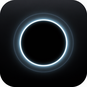
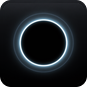
fix: иконка панели с прозрачными углами, 4.1.1
Белые уголки в «Настройках» были фоном PNG: иконка пакета настроек
не маскируется системой, поэтому непрозрачный почти белый фон
(252,252,253) давал белый квадрат за скруглённым artwork. Теперь
альфа строится по SDF скруглённого прямоугольника, а цвет кромки
берётся из самой тёмной точки на 2–6 px внутрь, чтобы не было
светлого ободка. Затронуты только icon.png / @2x / @3x, payload
остальных бинарей не менялся (Settings 11db44b0…).

Версия поднята до 4.1.1 во всех четырёх control-файлах, Info.plist
бандла и README.

---

fix: pane icon with transparent corners, 4.1.1

The white corners in Settings were the PNG background: preference-bundle
icons are not masked by the system, so the opaque near-white background
(252,252,253) produced a white square behind the rounded artwork. Alpha
is now derived from a rounded-rect SDF, and the edge colour is sampled
from the darkest point 2-6 px inward to avoid a light rim. Only
icon.png / @2x / @3x changed; no other payload binary differs
(Settings 11db44b0…).

Version bumped to 4.1.1 in all four control files, the bundle Info.plist
and the README.

diff --git a/README.md b/README.md
@@ -9,7 +9,7 @@
 Antumbra is a fork of [Shadow](https://github.com/jjolano/shadow) © 2023 jjolano
 (BSD-3-Clause): a jailbreak detection bypass hardened for iOS 15–18 and rootless
 Dopamine, with its own **English / Russian** pane language switch. Ships as
-`me.fedorovskyi.antumbra` (`4.1.0`).
+`me.fedorovskyi.antumbra` (`4.1.1`).
 
 Not affiliated with, sponsored by or endorsed by the original author. The core's
 internal names (Shadow.framework, ShadowCore.dylib, Shadow.dylib, the
@@ -111,7 +111,7 @@ inside every package.
 Antumbra — форк [Shadow](https://github.com/jjolano/shadow) © 2023 jjolano
 (BSD-3-Clause): обход детекта джейлбрейка, усиленный под iOS 15–18 и rootless
 Dopamine, с отдельным переключателем языка панели **English / Русский**.
-Ставится как `me.fedorovskyi.antumbra` (версия `4.1.0`).
+Ставится как `me.fedorovskyi.antumbra` (версия `4.1.1`).
 
 Проект не связан с автором оригинала и не одобрен им. Внутренние имена ядра
 (Shadow.framework, ShadowCore.dylib, Shadow.dylib, домен настроек
